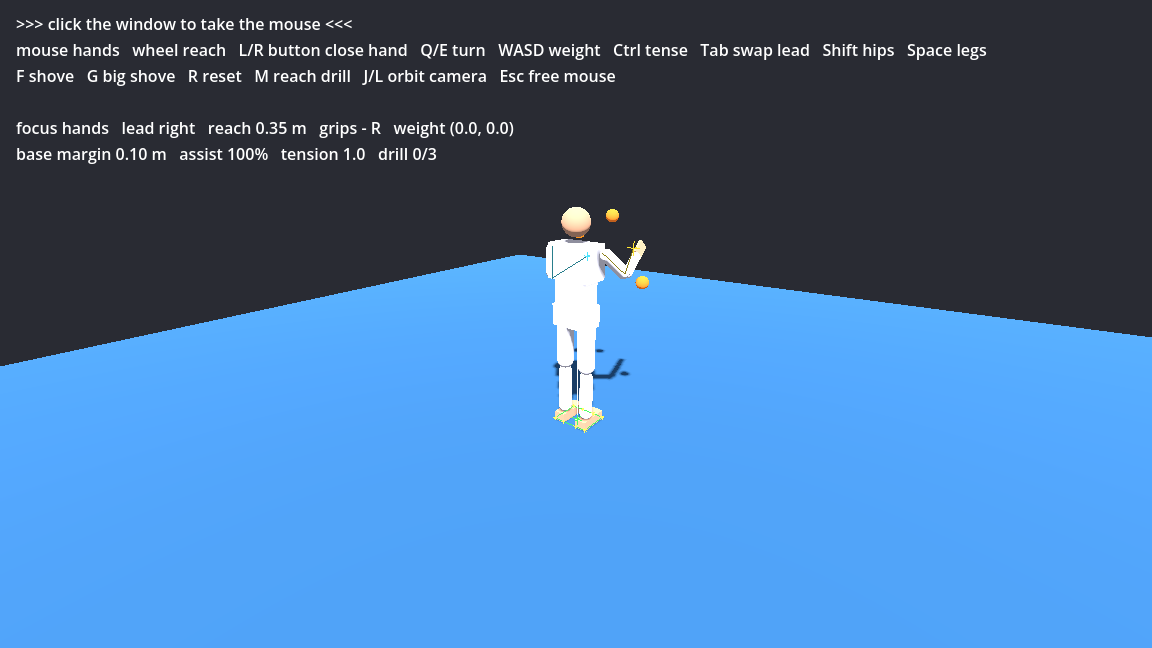
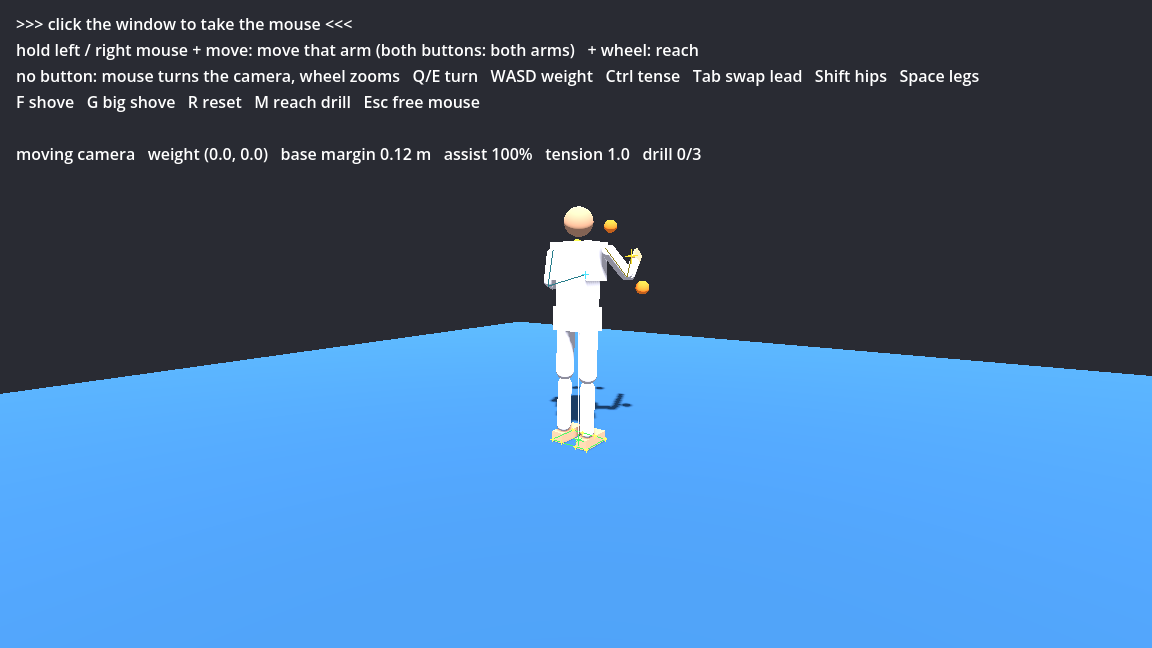
Fix arm shaking, mouse buttons pick the arm, orbit camera
- Shaking: build the elbow half-bent and keep the shoulder build pose to
  pure flex, so no arm joint is driven 90 deg past its build pose; the arm
  IK follows a smoothed chest to break a chest/arm feedback loop.
- Hold left/right mouse to move that arm (both for both); with no button
  the mouse orbits a new smoothed CameraRig and the wheel zooms.
- Physics interpolation on for smooth rendering at 120 Hz physics.

Claude-Session: https://claude.ai/code/session_01Jy71byyDzGvVZNbEXwnjqB

Changed region(s): [[0.0, 0.3086, 1.0, 0.7099], [0.0, 0.0617, 0.875, 0.2469]]

diff --git a/README.md b/README.md
@@ -11,14 +11,14 @@ Click the game window to take the mouse (Esc gives it back). Until then the arms
 
 | Input | Action |
 | --- | --- |
-| Mouse | Move the hand targets in a plane in front of the chest. The lead hand sits on the cursor, the other follows at half the distance. |
-| Wheel | Reach: pull the hands in or push them out |
-| Left / right button (hold) | Close the left / right hand (grabs once grips exist) |
+| Hold left / right mouse button + move the mouse | Move the left / right arm the way the mouse moves on screen. Hold both to move both arms. A held button also closes that hand (grabbing comes with grips). Each hand stays where you leave it. |
+| Hold a button + wheel | Reach out / pull in that arm |
+| Mouse with no button held | Orbit the camera. Wheel zooms. |
 | Q / E | Turn the shoulders |
 | WASD | Weight shift (recorded in the intent; stepping comes in movement milestone 3) |
 | Ctrl (hold) | Tense up: joint motors get 1.8x stronger |
-| Tab | Swap the lead hand |
-| Shift / Space (hold) | Hips / legs focus (recorded; used from movement milestone 5). Hands keep their last targets. |
+| Tab | Swap the lead side |
+| Shift / Space (hold) | Hips / legs focus (recorded; used from movement milestone 5) |
 
 Dev keys: F small shove, G big shove, R reset, M reach drill (touch the three balls in order), J / L orbit the camera.
 
@@ -58,18 +58,21 @@ target, reachable point), and `heading_basis()` (yaw-only frame, -Z = facing).
 - [ ] 6. Two fighters and the core test
 - [ ] 7. Stamina economy
 
-Known limits: the arms are built raised forward (`arm_build_pose`) because Jolt's joint
-motors flip when driven ~90 degrees or more from the pose the joint was created in, so a
-fighter spawns with its arms up and drops them in the first fraction of a second. Hands
-reach well in front of the body up to a little above the shoulders; reaching overhead or
-tight against the chest is still off by 15 to 25 cm.
+Known limits: Jolt's joint motors misbehave when a joint is driven ~90 degrees or more
+from the pose it was created in (arms flailed overhead, bent elbows buzzed). So the arms
+are built half-raised with the elbow half-bent (`arm_build_pose`, `elbow_build_flex`) and
+their limits shifted to match; a fighter spawns with its arms up and drops them in the
+first fraction of a second. Reaches across a 75-point grid in front of the body land
+within 3.5 cm on average (13 cm worst). The arm IK follows a smoothed copy of the chest
+(`ik_chest_rate`) to stop a feedback buzz.
 
 ## Files
 - `scripts/fighter.gd`: builds the 15-part ragdoll, joint limits, joint motors, base, upright assist, and turns the intent into joint targets (arm IK).
 - `scripts/fighter_intent.gd`: the intent contract.
 - `scripts/player_input.gd`: mouse and keyboard to intent.
 - `scripts/dev_keys.gd`: shove, reset and the reach drill.
-- `scripts/main.gd`: arena, camera and HUD.
+- `scripts/main.gd`: arena and HUD.
+- `scripts/camera_rig.gd`: smoothed orbit camera (mouse with no button held, wheel zoom).
 - `scripts/debug_overlay.gd`: balance and intent overlay.
 - `tests/test_stand.gd`, `tests/test_controls.gd`: headless checks. Run `godot --headless --path . --script res://tests/<name>.gd`.
 - `tests/screenshot.gd`, `tests/screenshot_reach.gd`: save screenshots (need a window, not `--headless`).
@@ -77,7 +80,8 @@ tight against the chest is still off by 15 to 25 cm.
 ## Tuning knobs (Fighter inspector or top of fighter.gd)
 - `pose_gain`: how fast joints chase their target.
 - `elbow_pole`: where elbows point while reaching. `turn_deg`: how far Q/E twists. `max_tension`: Ctrl strength.
-- `PlayerInput`: `mouse_sensitivity`, `cursor_limit`, `reach_min` / `reach_max`.
+- `PlayerInput`: `mouse_sensitivity`, `offset_min` / `offset_max` (box the hands stay in), `anchor_rate`.
+- `CameraRig`: `sensitivity`, `distance`, `follow_rate`.
 - `upright_*`: the standing assist. Lower it for a wobblier, goofier fighter.
 - `assist_give_up_margin`: how far the center of mass can leave the base before the fighter is allowed to fall.
 - Per-joint `strength` and `lim` in the BODY / LIMB tables.
